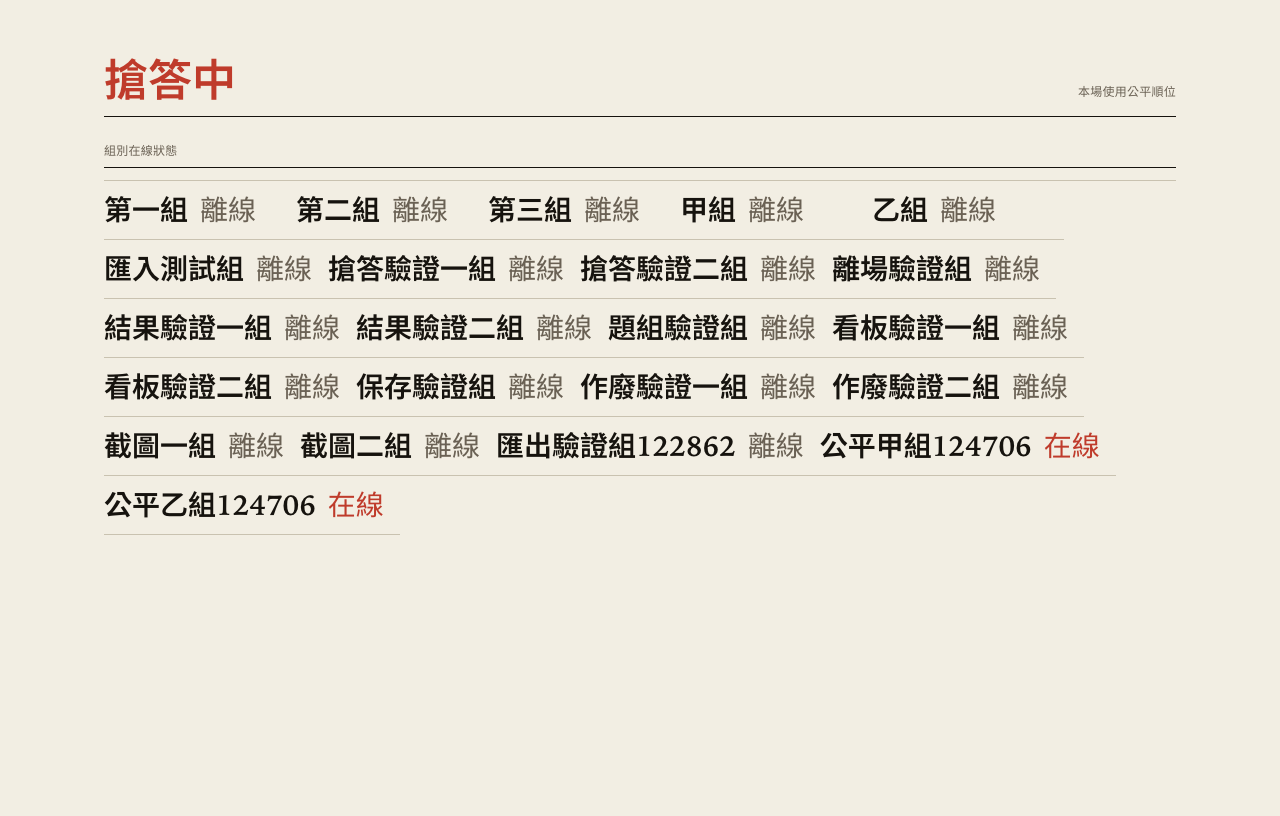
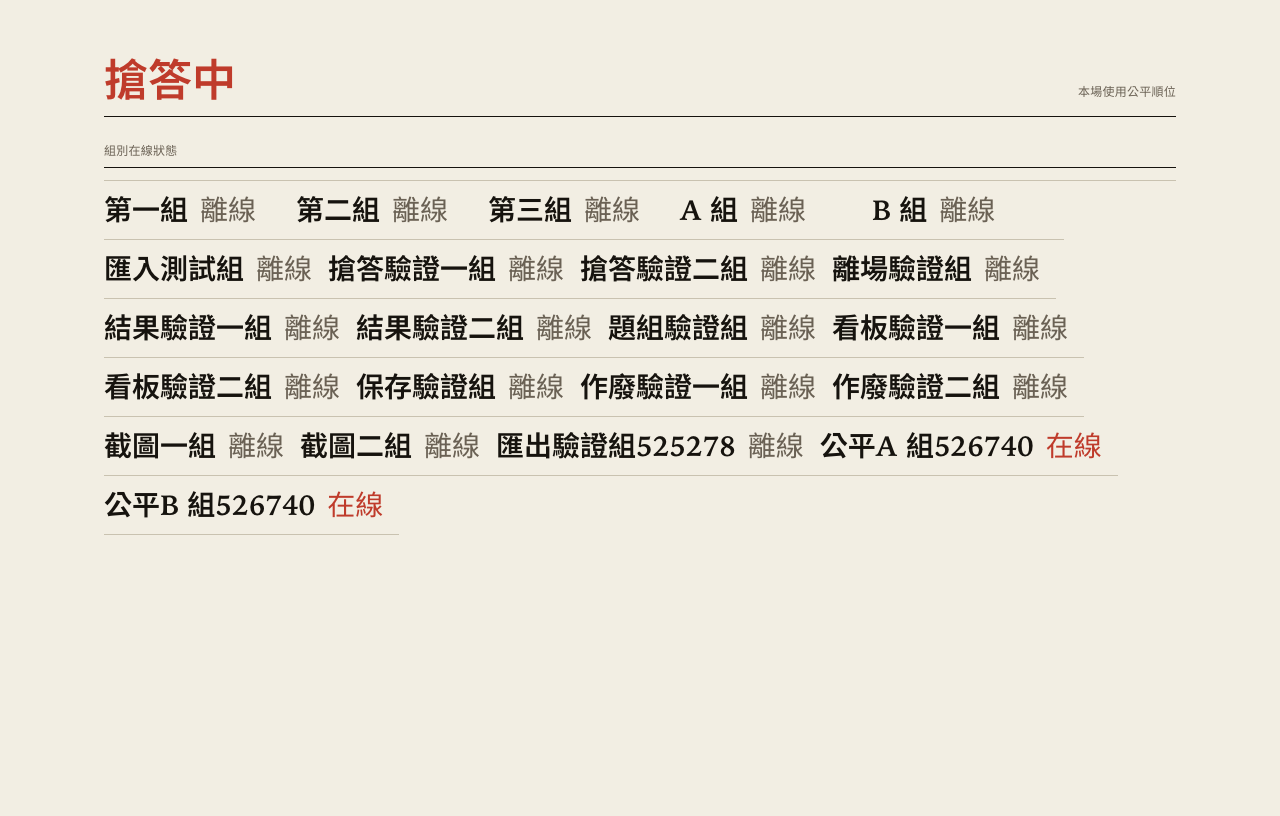
refactor(test): 測試與示範資料的甲乙丙改用 A／B／C

diff --git a/e2e/tests/001-activity-session.spec.ts b/e2e/tests/001-activity-session.spec.ts
@@ -201,23 +201,23 @@ test('quickstart 人工驗證表流程：登入、設組、倒數開啟、結束
       await expect(teacherPage.getByText('目前階段：準備中')).toBeVisible();
     }
 
-    // 步驟 4：新增「甲組」「乙組」（用新組名避免與前面的測試重複），
+    // 步驟 4：新增「A 組」「B 組」（用新組名避免與前面的測試重複），
     // B、C 的組別選單在 2 秒內出現兩組（AC-001-14、06）。
     const groupManager = teacherPage.getByRole('region', { name: '組別管理' });
-    await groupManager.getByLabel('新增組別名稱').fill('甲組');
+    await groupManager.getByLabel('新增組別名稱').fill('A 組');
     await groupManager
       .getByRole('button', { name: '新增組別', exact: true })
       .click();
-    await expect(groupList).toContainText('甲組');
-    await groupManager.getByLabel('新增組別名稱').fill('乙組');
+    await expect(groupList).toContainText('A 組');
+    await groupManager.getByLabel('新增組別名稱').fill('B 組');
     await groupManager
       .getByRole('button', { name: '新增組別', exact: true })
       .click();
-    await expect(groupList).toContainText('乙組');
+    await expect(groupList).toContainText('B 組');
     for (const page of [studentOnePage, studentTwoPage]) {
       const picker = page.getByRole('list', { name: '可選組別' });
-      await expect(picker).toContainText('甲組');
-      await expect(picker).toContainText('乙組');
+      await expect(picker).toContainText('A 組');
+      await expect(picker).toContainText('B 組');
     }
 
     // 步驟 5：空白、重複、超過 30 字的組名各自被拒絕並說明原因（AC-001-15）。
@@ -227,7 +227,7 @@ test('quickstart 人工驗證表流程：登入、設組、倒數開啟、結束
       .click();
     await expect(groupManager.getByRole('alert')).toContainText('請輸入組名');
 
-    await groupManager.getByLabel('新增組別名稱').fill('甲組');
+    await groupManager.getByLabel('新增組別名稱').fill('A 組');
     await groupManager
       .getByRole('button', { name: '新增組別', exact: true })
       .click();
@@ -243,19 +243,19 @@ test('quickstart 人工驗證表流程：登入、設組、倒數開啟、結束
       '組名最多 30 個字',
     );
 
-    // 步驟 6：B 選甲組、C 選乙組，各自顯示組名與「準備中」（AC-001-07）。
+    // 步驟 6：B 選A 組、C 選B 組，各自顯示組名與「準備中」（AC-001-07）。
     await studentOnePage
-      .getByRole('button', { name: '甲組', exact: true })
+      .getByRole('button', { name: 'A 組', exact: true })
       .click();
     await expect(
-      studentOnePage.getByText('甲組', { exact: true }),
+      studentOnePage.getByText('A 組', { exact: true }),
     ).toBeVisible();
     await expect(studentOnePage.getByText('目前階段：準備中')).toBeVisible();
     await studentTwoPage
-      .getByRole('button', { name: '乙組', exact: true })
+      .getByRole('button', { name: 'B 組', exact: true })
       .click();
     await expect(
-      studentTwoPage.getByText('乙組', { exact: true }),
+      studentTwoPage.getByText('B 組', { exact: true }),
     ).toBeVisible();
     await expect(studentTwoPage.getByText('目前階段：準備中')).toBeVisible();
 
@@ -274,10 +274,10 @@ test('quickstart 人工驗證表流程：登入、設組、倒數開啟、結束
       );
     }
 
-    // 步驟 8：B 重新整理頁面，仍是甲組、搶答中（AC-001-18）。
+    // 步驟 8：B 重新整理頁面，仍是A 組、搶答中（AC-001-18）。
     await studentOnePage.reload();
     await expect(
-      studentOnePage.getByText('甲組', { exact: true }),
+      studentOnePage.getByText('A 組', { exact: true }),
     ).toBeVisible();
     await expect(studentOnePage.getByText('目前階段：搶答中')).toBeVisible();
 
@@ -287,8 +287,8 @@ test('quickstart 人工驗證表流程：登入、設組、倒數開啟、結束
     await expect(
       groupManager.getByRole('button', { name: '新增組別', exact: true }),
     ).toBeDisabled();
-    await expect(groupList).toContainText('甲組');
-    await expect(groupList).toContainText('乙組');
+    await expect(groupList).toContainText('A 組');
+    await expect(groupList).toContainText('B 組');
 
     // 步驟 10（調整）：quickstart 為等 30 秒倒數歸零自動結束；為節省 e2e
     // 時間改由老師按「結束搶答」，三個畫面 2 秒內顯示已結束（AC-001-02、24）。
@@ -307,13 +307,13 @@ test('quickstart 人工驗證表流程：登入、設組、倒數開啟、結束
     for (const page of [teacherPage, studentOnePage, studentTwoPage]) {
       await expect(page.getByText('目前階段：準備中')).toBeVisible();
     }
-    await expect(groupList).toContainText('甲組');
-    await expect(groupList).toContainText('乙組');
+    await expect(groupList).toContainText('A 組');
+    await expect(groupList).toContainText('B 組');
     await expect(
-      studentOnePage.getByText('甲組', { exact: true }),
+      studentOnePage.getByText('A 組', { exact: true }),
     ).toBeVisible();
     await expect(
-      studentTwoPage.getByText('乙組', { exact: true }),
+      studentTwoPage.getByText('B 組', { exact: true }),
     ).toBeVisible();
   } finally {
     await teacherContext.close();

diff --git a/web/tests/AnswerAreaEnterSubmit.test.tsx b/web/tests/AnswerAreaEnterSubmit.test.tsx
@@ -112,7 +112,7 @@ describe('作答的錯誤訊息與 Enter 送出（003 人工驗證建議；2026-
     render(<AnswerArea snapshot={snapshot()} />);
 
     fireEvent.change(screen.getByLabelText('第 2 題（1）答案'), {
-      target: { value: '甲' },
+      target: { value: 'A' },
     });
     fireEvent.click(screen.getByRole('button', { name: '送出第 2 題' }));
 
@@ -126,13 +126,13 @@ describe('作答的錯誤訊息與 Enter 送出（003 人工驗證建議；2026-
     render(<AnswerArea snapshot={snapshot()} />);
 
     const input = screen.getByLabelText('第 1 題答案');
-    fireEvent.change(input, { target: { value: '甲答案' } });
+    fireEvent.change(input, { target: { value: '答案 A' } });
     pressEnter(input);
 
     await waitFor(() => {
       expect(sendCommand).toHaveBeenCalledWith('answer:submit', {
         questionNumber: 1,
-        answers: ['甲答案'],
+        answers: ['答案 A'],
       });
     });
   });
@@ -141,7 +141,7 @@ describe('作答的錯誤訊息與 Enter 送出（003 人工驗證建議；2026-
     render(<AnswerArea snapshot={snapshot()} />);
 
     const input = screen.getByLabelText('第 1 題答案');
-    fireEvent.change(input, { target: { value: '甲答案' } });
+    fireEvent.change(input, { target: { value: '答案 A' } });
 
     // isComposing：正在用輸入法組字。
     pressEnter(input, { isComposing: true });
@@ -156,7 +156,7 @@ describe('作答的錯誤訊息與 Enter 送出（003 人工驗證建議；2026-
 
     const first = screen.getByLabelText('第 2 題（1）答案');
     const second = screen.getByLabelText('第 2 題（2）答案');
-    fireEvent.change(first, { target: { value: '甲' } });
+    fireEvent.change(first, { target: { value: 'A' } });
     pressEnter(first);
 
     await waitFor(() => {
@@ -180,8 +180,9 @@ describe('作答的錯誤訊息與 Enter 送出（003 人工驗證建議；2026-
     render(<AnswerArea snapshot={snapshot()} />);
 
     const input = screen.getByLabelText('第 1 題答案');
-    fireEvent.change(input, { target: { value: '甲答案' } });
+    fireEvent.change(input, { target: { value: '答案 A' } });
 
-    expect(screen.getByText('3／200')).toBeDefined();
+    // 「答案 A」是 4 個字（含半形空白）。
+    expect(screen.getByText('4／200')).toBeDefined();
   });
 });

diff --git a/server/tests/integration/writeBackSheetCheck.test.ts b/server/tests/integration/writeBackSheetCheck.test.ts
@@ -47,8 +47,8 @@ describe('006 寫回前的版面比對與自動對位（2026-11-19 review / T029
 
     expect(result).toEqual({ ok: true, writtenCells: 2, remapped: false });
     expect(requests[0]?.updates).toEqual([
-      { cell: 'H5', value: '甲答案' },
-      { cell: 'H6', value: '乙答案' },
+      { cell: 'H5', value: '答案 A' },
+      { cell: 'H6', value: '答案 B' },
     ]);
   });
 
@@ -67,8 +67,8 @@ describe('006 寫回前的版面比對與自動對位（2026-11-19 review / T029
 
     expect(result).toEqual({ ok: true, writtenCells: 2, remapped: true });
     expect(requests[0]?.updates).toEqual([
-      { cell: 'H6', value: '甲答案' },
-      { cell: 'H7', value: '乙答案' },
+      { cell: 'H6', value: '答案 A' },
+      { cell: 'H7', value: '答案 B' },
     ]);
   });
 
@@ -162,7 +162,7 @@ describe('006 寫回前的版面比對與自動對位（2026-11-19 review / T029
     database = openDatabase(':memory:');
     // 直接給一筆答案數對不上的作答（正常流程不會產生，防守用）。
     await seedOfficialGroupLinkStructure(database, {
-      submissionAnswers: ['甲', '乙', '丙'],
+      submissionAnswers: ['A', 'B', 'C'],
     });
     const { writer, requests } = recordingWriter();
 

diff --git a/web/tests/projector/ProjectorPage.test.tsx b/web/tests/projector/ProjectorPage.test.tsx
@@ -71,7 +71,7 @@ describe('005 投影看板頁面（US3；T024）', () => {
               {
                 questionNumber: 1,
                 winnerGroupName: '第一組',
-                winnerAnswers: ['答案甲'],
+                winnerAnswers: ['答案 A'],
               },
             ],
             groupWinCounts: null,
@@ -82,7 +82,7 @@ describe('005 投影看板頁面（US3；T024）', () => {
 
     expect(screen.getByText('第 1 題')).toBeDefined();
     expect(screen.getByText('第一組')).toBeDefined();
-    expect(screen.getByText('答案甲')).toBeDefined();
+    expect(screen.getByText('答案 A')).toBeDefined();
     expect(screen.queryByText('第 2 題')).toBeNull();
   });
 
@@ -97,12 +97,12 @@ describe('005 投影看板頁面（US3；T024）', () => {
               {
                 questionNumber: 1,
                 winnerGroupName: '第一組',
-                winnerAnswers: ['答案甲'],
+                winnerAnswers: ['答案 A'],
               },
               {
                 questionNumber: 2,
                 winnerGroupName: '第二組',
-                winnerAnswers: ['答案乙'],
+                winnerAnswers: ['答案 B'],
               },
             ],
             groupWinCounts: [

diff --git a/server/tests/integration/guidedNotesWriteBack.test.ts b/server/tests/integration/guidedNotesWriteBack.test.ts
@@ -165,14 +165,14 @@ describe('006 寫回線上 Google 試算表（US1）', () => {
       questionId: 'q-2',
       groupId: 'group-1',
       rank: 1,
-      answers: ['甲', '乙'],
+      answers: ['A', 'B'],
     });
 
     const targets = await resolveGuidedNotesTargets(database);
 
     expect(targets?.writes).toEqual([
-      { cell: 'G7', content: '（1）甲' },
-      { cell: 'G8', content: '（2）乙' },
+      { cell: 'G7', content: '（1）A' },
+      { cell: 'G8', content: '（2）B' },
     ]);
   });
 
@@ -192,8 +192,8 @@ describe('006 寫回線上 Google 試算表（US1）', () => {
     expect(requests[0]?.spreadsheetId).toBe('sheet-id-123');
     expect(requests[0]?.sheetName).toBe('學習單');
     expect(requests[0]?.updates).toEqual([
-      { cell: 'H5', value: '甲答案' },
-      { cell: 'H6', value: '乙答案' },
+      { cell: 'H5', value: '答案 A' },
+      { cell: 'H6', value: '答案 B' },
     ]);
   });
 

diff --git a/server/tests/integration/projector.test.ts b/server/tests/integration/projector.test.ts
@@ -181,7 +181,7 @@ describe('005 投影看板（US3；T023）', () => {
     const projectorState = waitForState(projector);
     const ack = await sendCommand(student, 'answer:submit', {
       questionNumber: 1,
-      answers: ['甲答案'],
+      answers: ['答案 A'],
     });
     expect(ack).toEqual({ ok: true });
 
@@ -190,7 +190,7 @@ describe('005 投影看板（US3；T023）', () => {
     const serialized = JSON.stringify(state);
     expect(serialized).not.toContain('"answers"');
     expect(serialized).not.toContain('"cells"');
-    expect(serialized).not.toContain('甲答案');
+    expect(serialized).not.toContain('答案 A');
   });
 
   it('非老師身分連線不會取得投影快照（FR-022、AC-005-18）', async () => {

diff --git a/web/src/features/student/StudentResults.tsx b/web/src/features/student/StudentResults.tsx
@@ -7,7 +7,7 @@ export type StudentResultsProps = {
 
 /**
  * 題組（一題多空格）的每格答案以原前綴標示、依前綴順序逐格顯示
- * （003 US5；T040；AC-003-25），例如「（1）甲、（2）乙」。
+ * （003 US5；T040；AC-003-25），例如「（1）A、（2）B」。
  * 單題維持原有的「、」合併顯示；blanks 與 answers 同為 blank position
  * 順序（T038 整合測試保證），以 index 對應，與 AnswerArea 相同慣例。
  */

diff --git a/web/tests/AnswerAreaGuidance.test.tsx b/web/tests/AnswerAreaGuidance.test.tsx
@@ -93,7 +93,7 @@ describe('AnswerArea 的 web 指引修正（Modern Web Guidance 審查）', () =
 
     const first = screen.getByLabelText('第 1 題（1）答案');
     const second = screen.getByLabelText('第 1 題（2）答案');
-    fireEvent.change(first, { target: { value: '甲' } });
+    fireEvent.change(first, { target: { value: 'A' } });
     fireEvent.click(screen.getByRole('button', { name: '送出第 1 題' }));
 
     await waitFor(() => {

diff --git a/server/tests/integration/writeBackRoutes.test.ts b/server/tests/integration/writeBackRoutes.test.ts
@@ -78,8 +78,8 @@ describe('006 寫回路由（US1）', () => {
       remapped: false,
     });
     expect(requests[0]?.updates).toEqual([
-      { cell: 'H5', value: '甲答案' },
-      { cell: 'H6', value: '乙答案' },
+      { cell: 'H5', value: '答案 A' },
+      { cell: 'H6', value: '答案 B' },
     ]);
   });
 

diff --git a/server/tests/integration/guidedNotesFixtures.ts b/server/tests/integration/guidedNotesFixtures.ts
@@ -85,7 +85,7 @@ export async function seedOfficialGroupLinkStructure(
     groupId: 'group-1',
     rank: 1,
     receivedAt: '2026-11-17T09:30:00.000Z',
-    answers: overrides.submissionAnswers ?? ['甲答案', '乙答案'],
+    answers: overrides.submissionAnswers ?? ['答案 A', '答案 B'],
   });
 }
 
